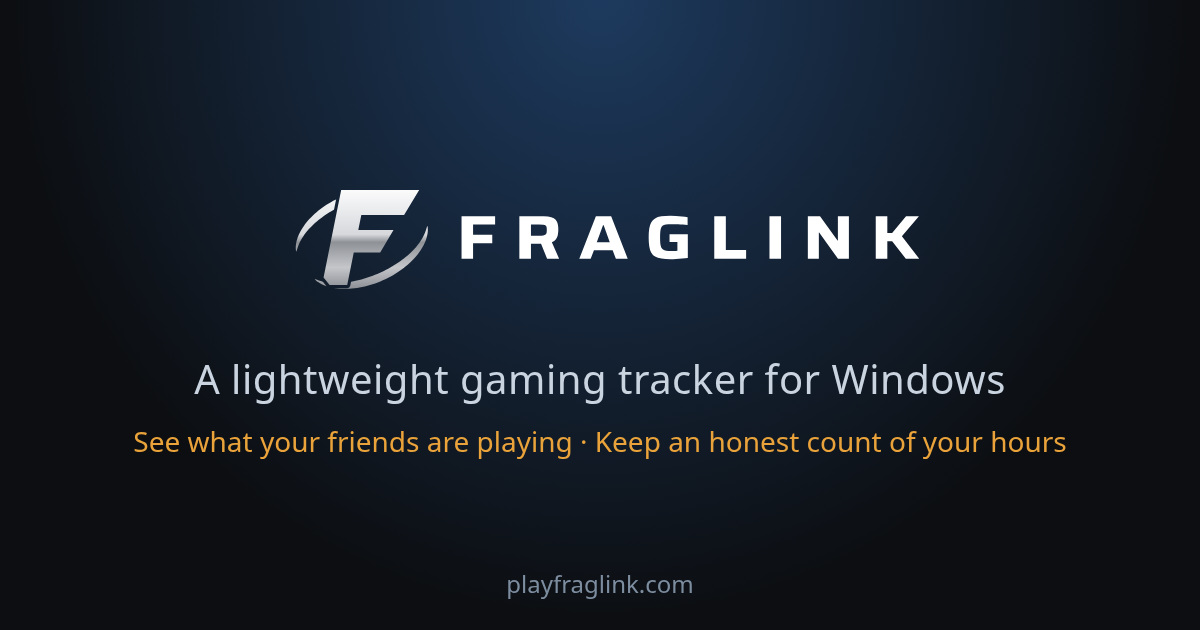
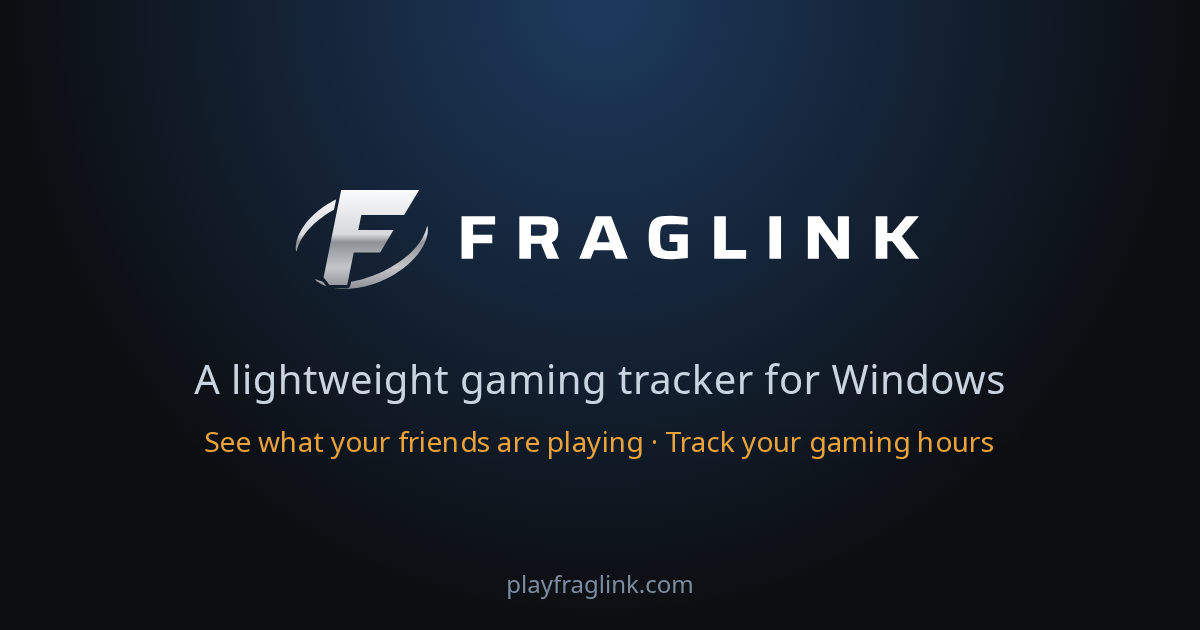
Site copy: drop 'honest count of hours' from the home hero, meta/og description and og-card tagline

Changed region(s): [[0.0925, 0.6937, 0.8942, 0.7238]]

diff --git a/apps/site-web/pages/index.html b/apps/site-web/pages/index.html
@@ -3,7 +3,7 @@
 <section class="big-hero" id="hero" style="background:radial-gradient(900px 300px at 70% 0,#24456a,#0d1622)"><div class="inr">
   <div class="kick">Play. Connect. Track.</div>
   <h1>See what your friends are playing.</h1>
-  <p>A small Windows tray app that shows what your friends are playing and keeps an honest count of your hours. No ads, no overlay, nothing injected into your games.</p>
+  <p>A small Windows tray app that tracks your gaming hours and shows what your friends are playing. No ads, no overlay, nothing injected into your games.</p>
   <p style="margin-top:16px"><a class="btn dl big" data-dl href="/download" aria-disabled="true">Download for Windows</a> <a class="btn blue big" href="/signup" data-signedout>Create an account</a></p>
   <span class="ver" data-ver>&nbsp;</span>
 </div></section>

diff --git a/apps/site-web/build.py b/apps/site-web/build.py
@@ -15,7 +15,7 @@ layout = open(os.path.join(HERE, "layout.html")).read()
 SITEKEY = os.environ.get("FRAGLINK_TURNSTILE_SITEKEY", "0x4AAAAAAFUF0sKGuaUYzQ8H")
 # Search engines. Production is playfraglink.com; beta sends noindex headers and Disallow: / (Caddy).
 CANON = "https://playfraglink.com"
-DESC = "Fraglink: a lightweight gaming tracker for Windows. See what your friends are playing and keep an honest count of your hours."
+DESC = "Fraglink: a lightweight Windows tray app that tracks your gaming hours and shows what your friends are playing."
 # pages search engines may index -> their one canonical address (also in the server's sitemap)
 INDEXABLE = {"home": "/", "download": "/download", "news": None, "privacy": "/privacy", "terms": "/terms"}
 OG_IMG = CANON + "/assets/og-card.png"
